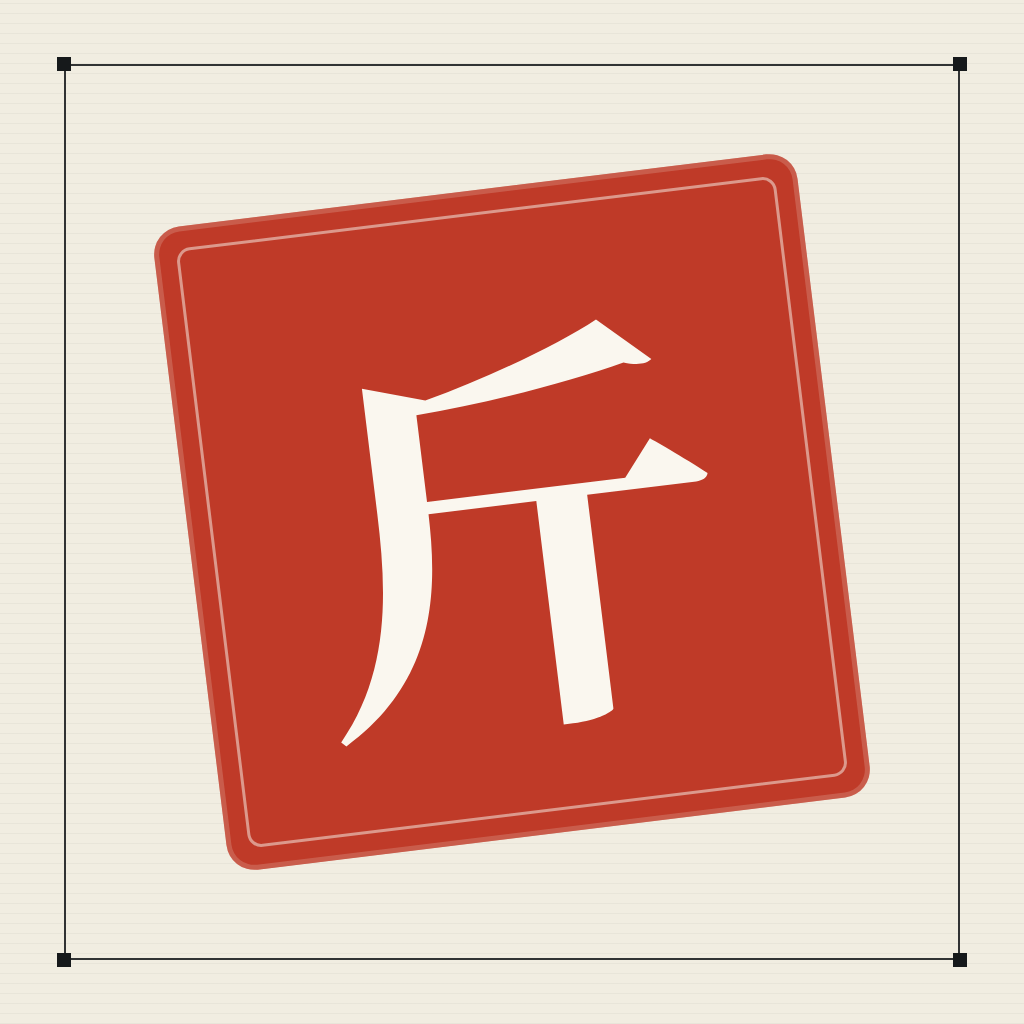
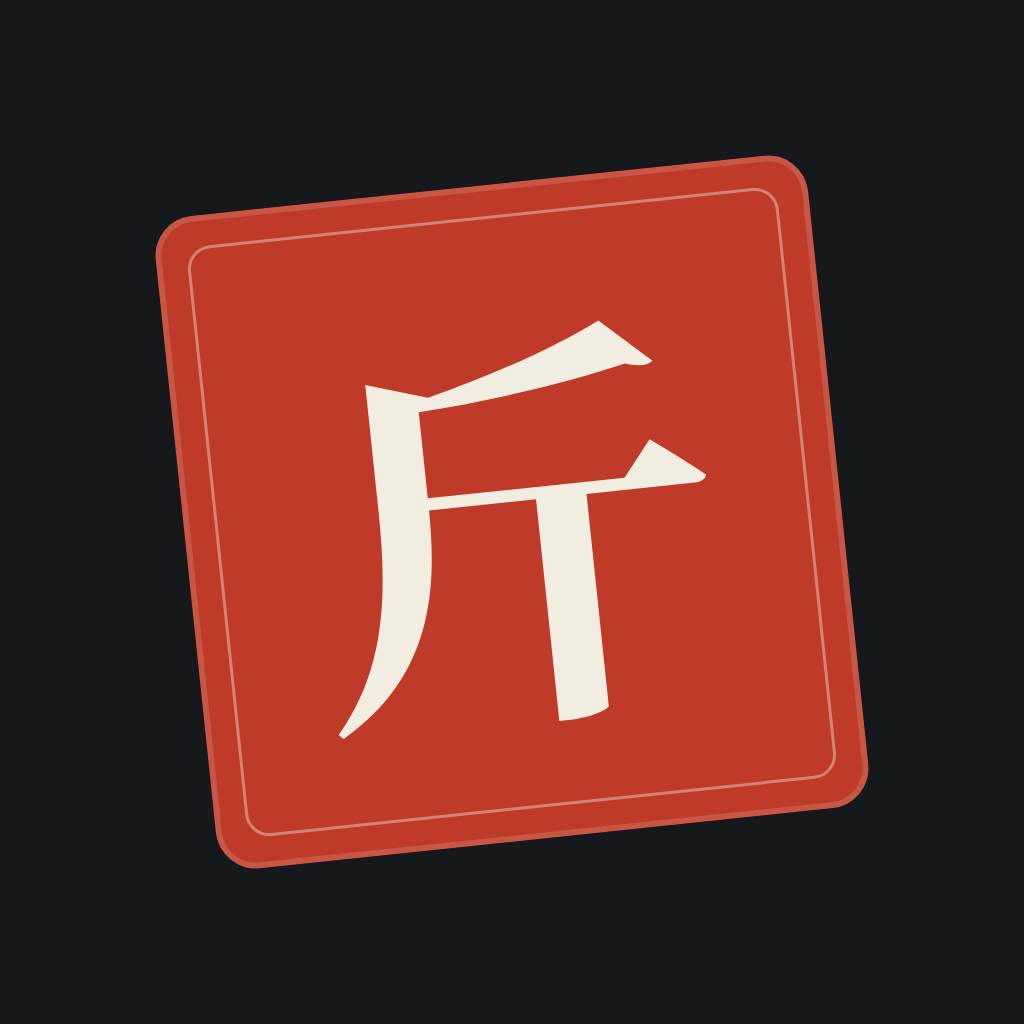
feat: MySQL 库不存在时自动建库；图标改为墨底朱印

diff --git a/Sources/Sync/MySQLClient.swift b/Sources/Sync/MySQLClient.swift
@@ -509,6 +509,19 @@ final class MySQLClient {
             throw MySQLClientError.invalidDatabase("只允许 A-Za-z0-9_$ 且长度 1...64")
         }
         close()
+        do {
+            try connectTransport()
+        } catch let error as MySQLClientError {
+            // 1049：库还没建。自动建库后继续，不让用户去服务端手动 CREATE DATABASE。
+            if case .databaseNotExist = error {
+                try bootstrapDatabase()
+                return
+            }
+            throw error
+        }
+    }
+
+    private func connectTransport() throws {
         switch config.normalizedTLS {
         case "disabled":
             try establish(useTLS: false)
@@ -522,6 +535,43 @@ final class MySQLClient {
         default:
             try connectPreferred()
         }
+    }
+
+    /// 库不存在时：先不选库连上，CREATE DATABASE + USE，之后的建表/同步照常。
+    private func bootstrapDatabase() throws {
+        close()
+        let name = config.database
+        let tick = "\u{60}"
+        let createSQL = "CREATE DATABASE IF NOT EXISTS " + tick + name + tick
+            + " DEFAULT CHARACTER SET utf8mb4 COLLATE utf8mb4_unicode_ci"
+        let useSQL = "USE " + tick + name + tick
+        let order: [Bool]
+        switch config.normalizedTLS {
+        case "disabled": order = [false]
+        case "required": order = [true]
+        default: order = [true, false]
+        }
+        var lastError: Error?
+        for useTLS in order {
+            do {
+                try establish(useTLS: useTLS, useDatabase: false)
+                _ = try execute(createSQL)
+                _ = try execute(useSQL)
+                if config.normalizedTLS != "required" {
+                    tlsWarning = useTLS ? nil : MySQLClient.plaintextDowngradeWarning
+                }
+                isOpen = true
+                return
+            } catch {
+                lastError = error
+                close()
+            }
+        }
+        if let lastError {
+            let detail = (lastError as? LocalizedError)?.errorDescription ?? lastError.localizedDescription
+            throw MySQLClientError.unsupported("库 " + name + " 不存在，自动建库失败：" + detail)
+        }
+        throw MySQLClientError.unsupported("库 " + name + " 不存在，自动建库失败")
     }
 
     func close() {
@@ -600,7 +650,7 @@ final class MySQLClient {
         throw lastError
     }
 
-    private func establish(useTLS: Bool) throws {
+    private func establish(useTLS: Bool, useDatabase: Bool = true) throws {
         self.usingTLS = useTLS
         self.sequence = 0
         let conn = try openConnection(useTLS: useTLS)
@@ -610,7 +660,7 @@ final class MySQLClient {
             serverVersion = handshake.serverVersion
             scramble = handshake.scramble
             authPluginName = handshake.authPlugin.isEmpty ? "mysql_native_password" : handshake.authPlugin
-            try sendHandshakeResponse(handshake)
+            try sendHandshakeResponse(handshake, useDatabase: useDatabase)
             try awaitAuthResult()
             isOpen = true
         } catch {
@@ -967,7 +1017,7 @@ final class MySQLClient {
                                authPlugin: plugin)
     }
 
-    private func sendHandshakeResponse(_ handshake: ServerHandshake) throws {
+    private func sendHandshakeResponse(_ handshake: ServerHandshake, useDatabase: Bool = true) throws {
         let desired: UInt32 =
             ClientCapability.longPassword |
             ClientCapability.longFlag |
@@ -977,7 +1027,7 @@ final class MySQLClient {
             ClientCapability.pluginAuth |
             ClientCapability.pluginAuthLenenc |
             ClientCapability.multiResults |
-            ClientCapability.connectWithDB
+            (useDatabase ? ClientCapability.connectWithDB : 0)
         let capabilities = desired & handshake.capabilities
         guard capabilities & ClientCapability.protocol41 != 0 else {
             throw MySQLClientError.unsupported("服务端不支持 CLIENT_PROTOCOL_41（MySQL 版本过旧）")
@@ -996,7 +1046,7 @@ final class MySQLClient {
         // CLIENT_PLUGIN_AUTH_LENENC_CLIENT_DATA：长度编码；认证响应不会超过 250 字节，1 字节即可
         payload.append(UInt8(auth.count & 0xFF))
         payload.append(contentsOf: auth)
-        if capabilities & ClientCapability.connectWithDB != 0 {
+        if useDatabase, capabilities & ClientCapability.connectWithDB != 0 {
             payload.append(contentsOf: Array(config.database.utf8))
             payload.append(0)
         }
